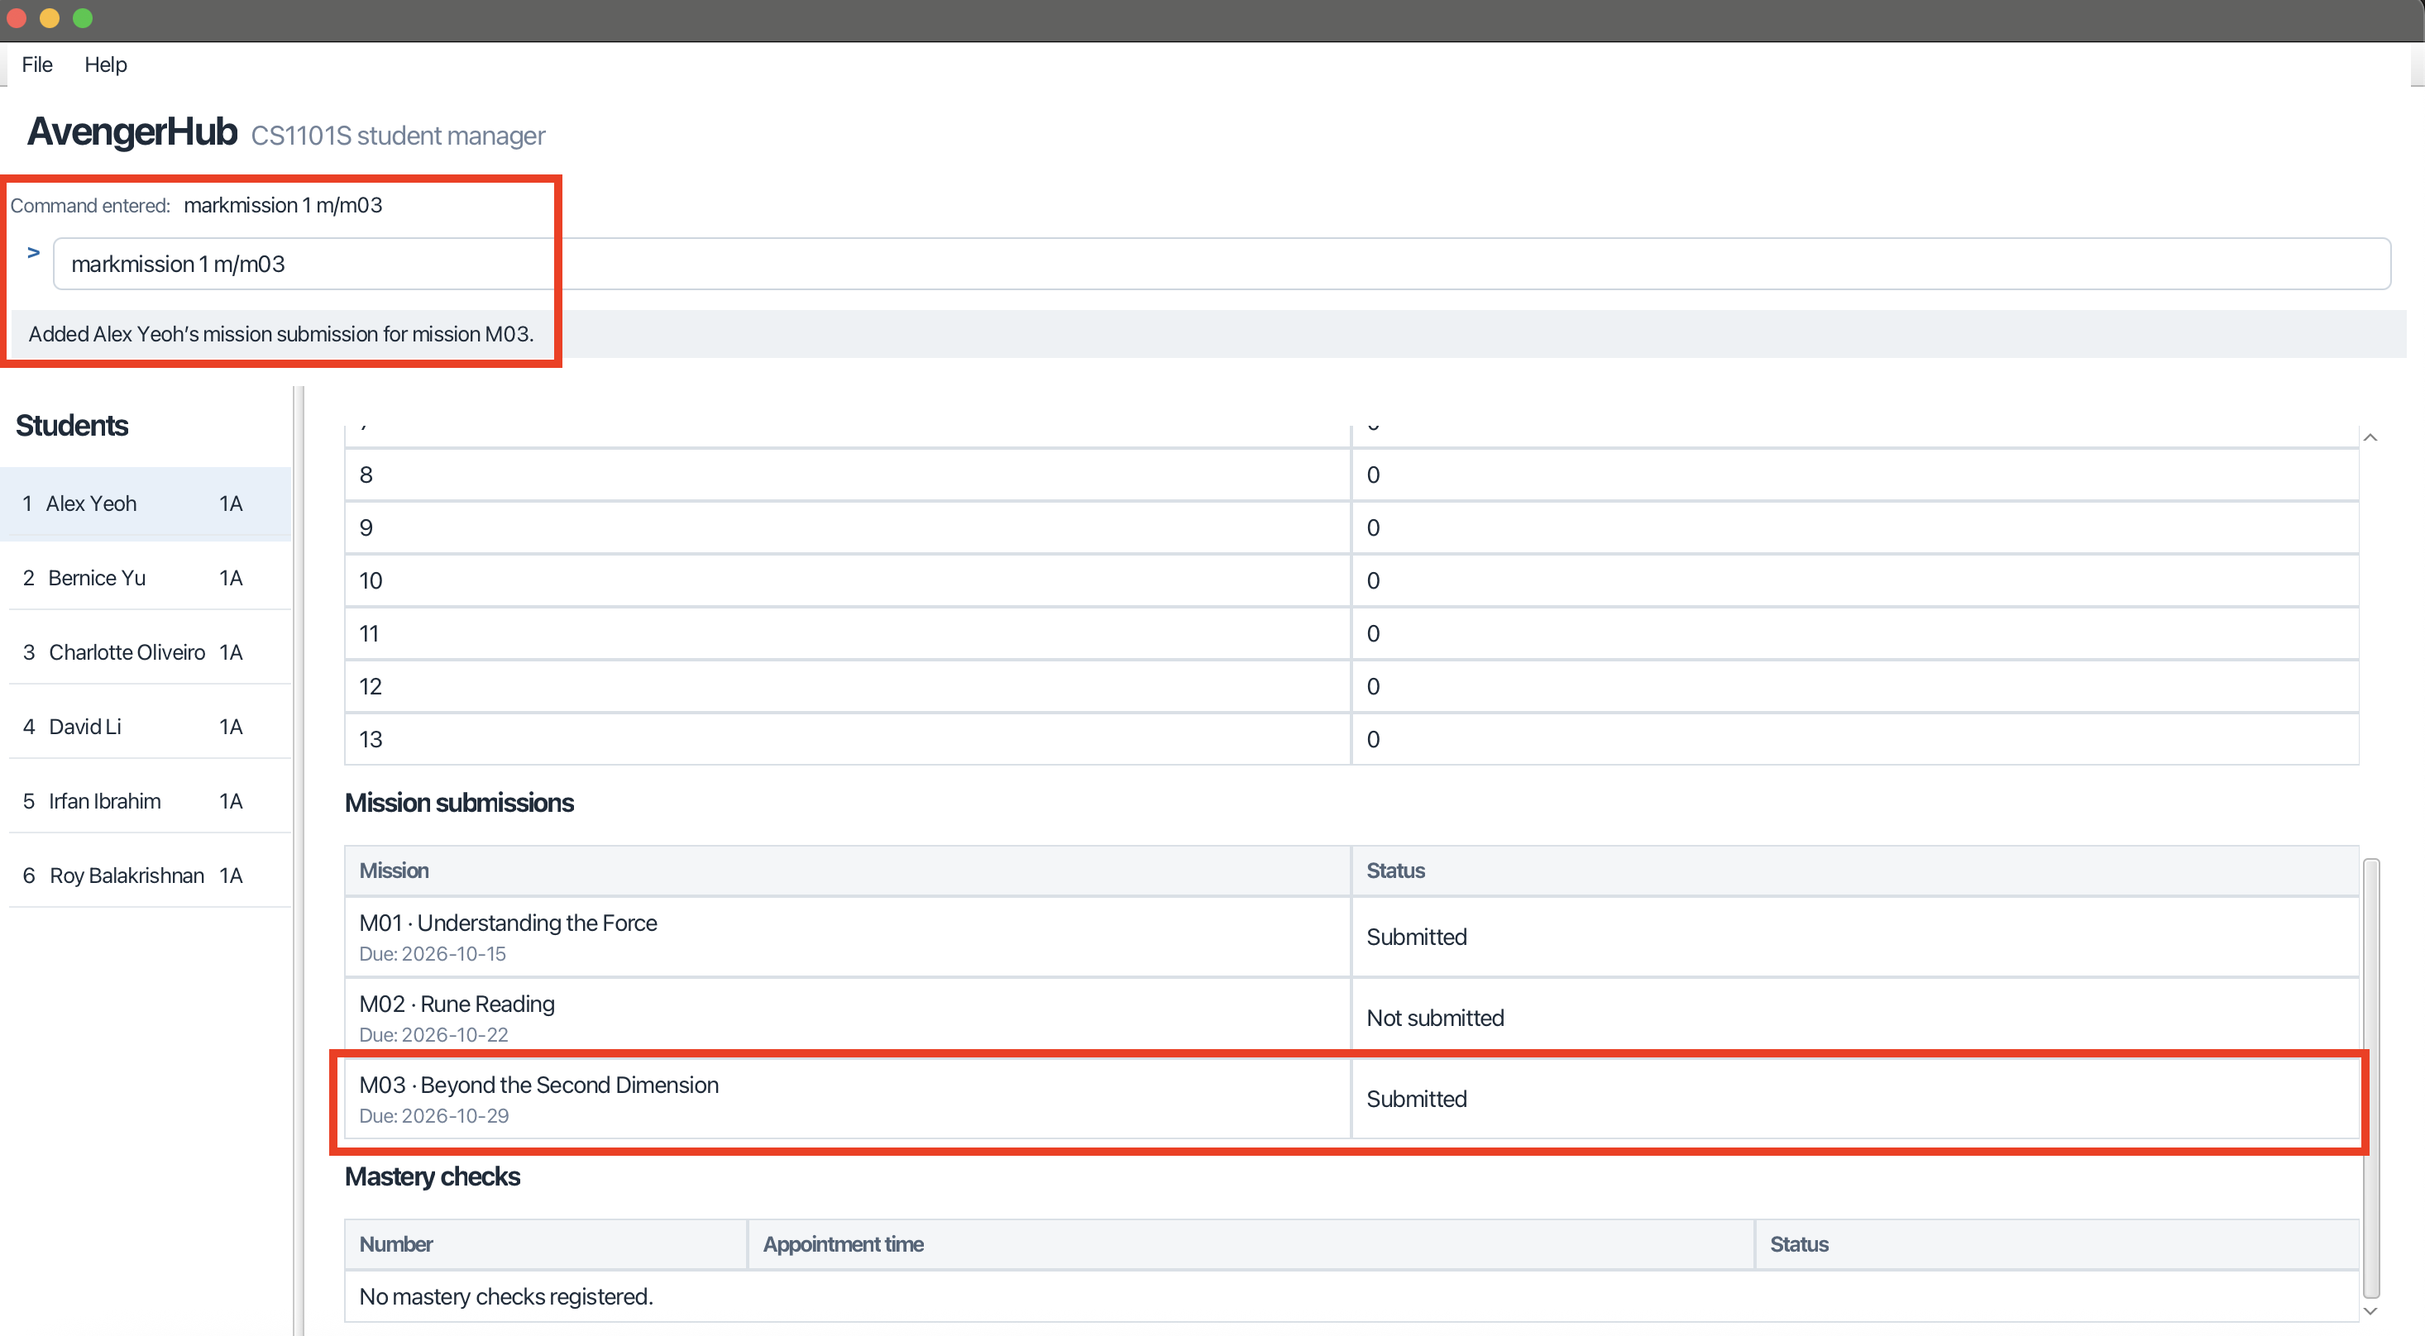
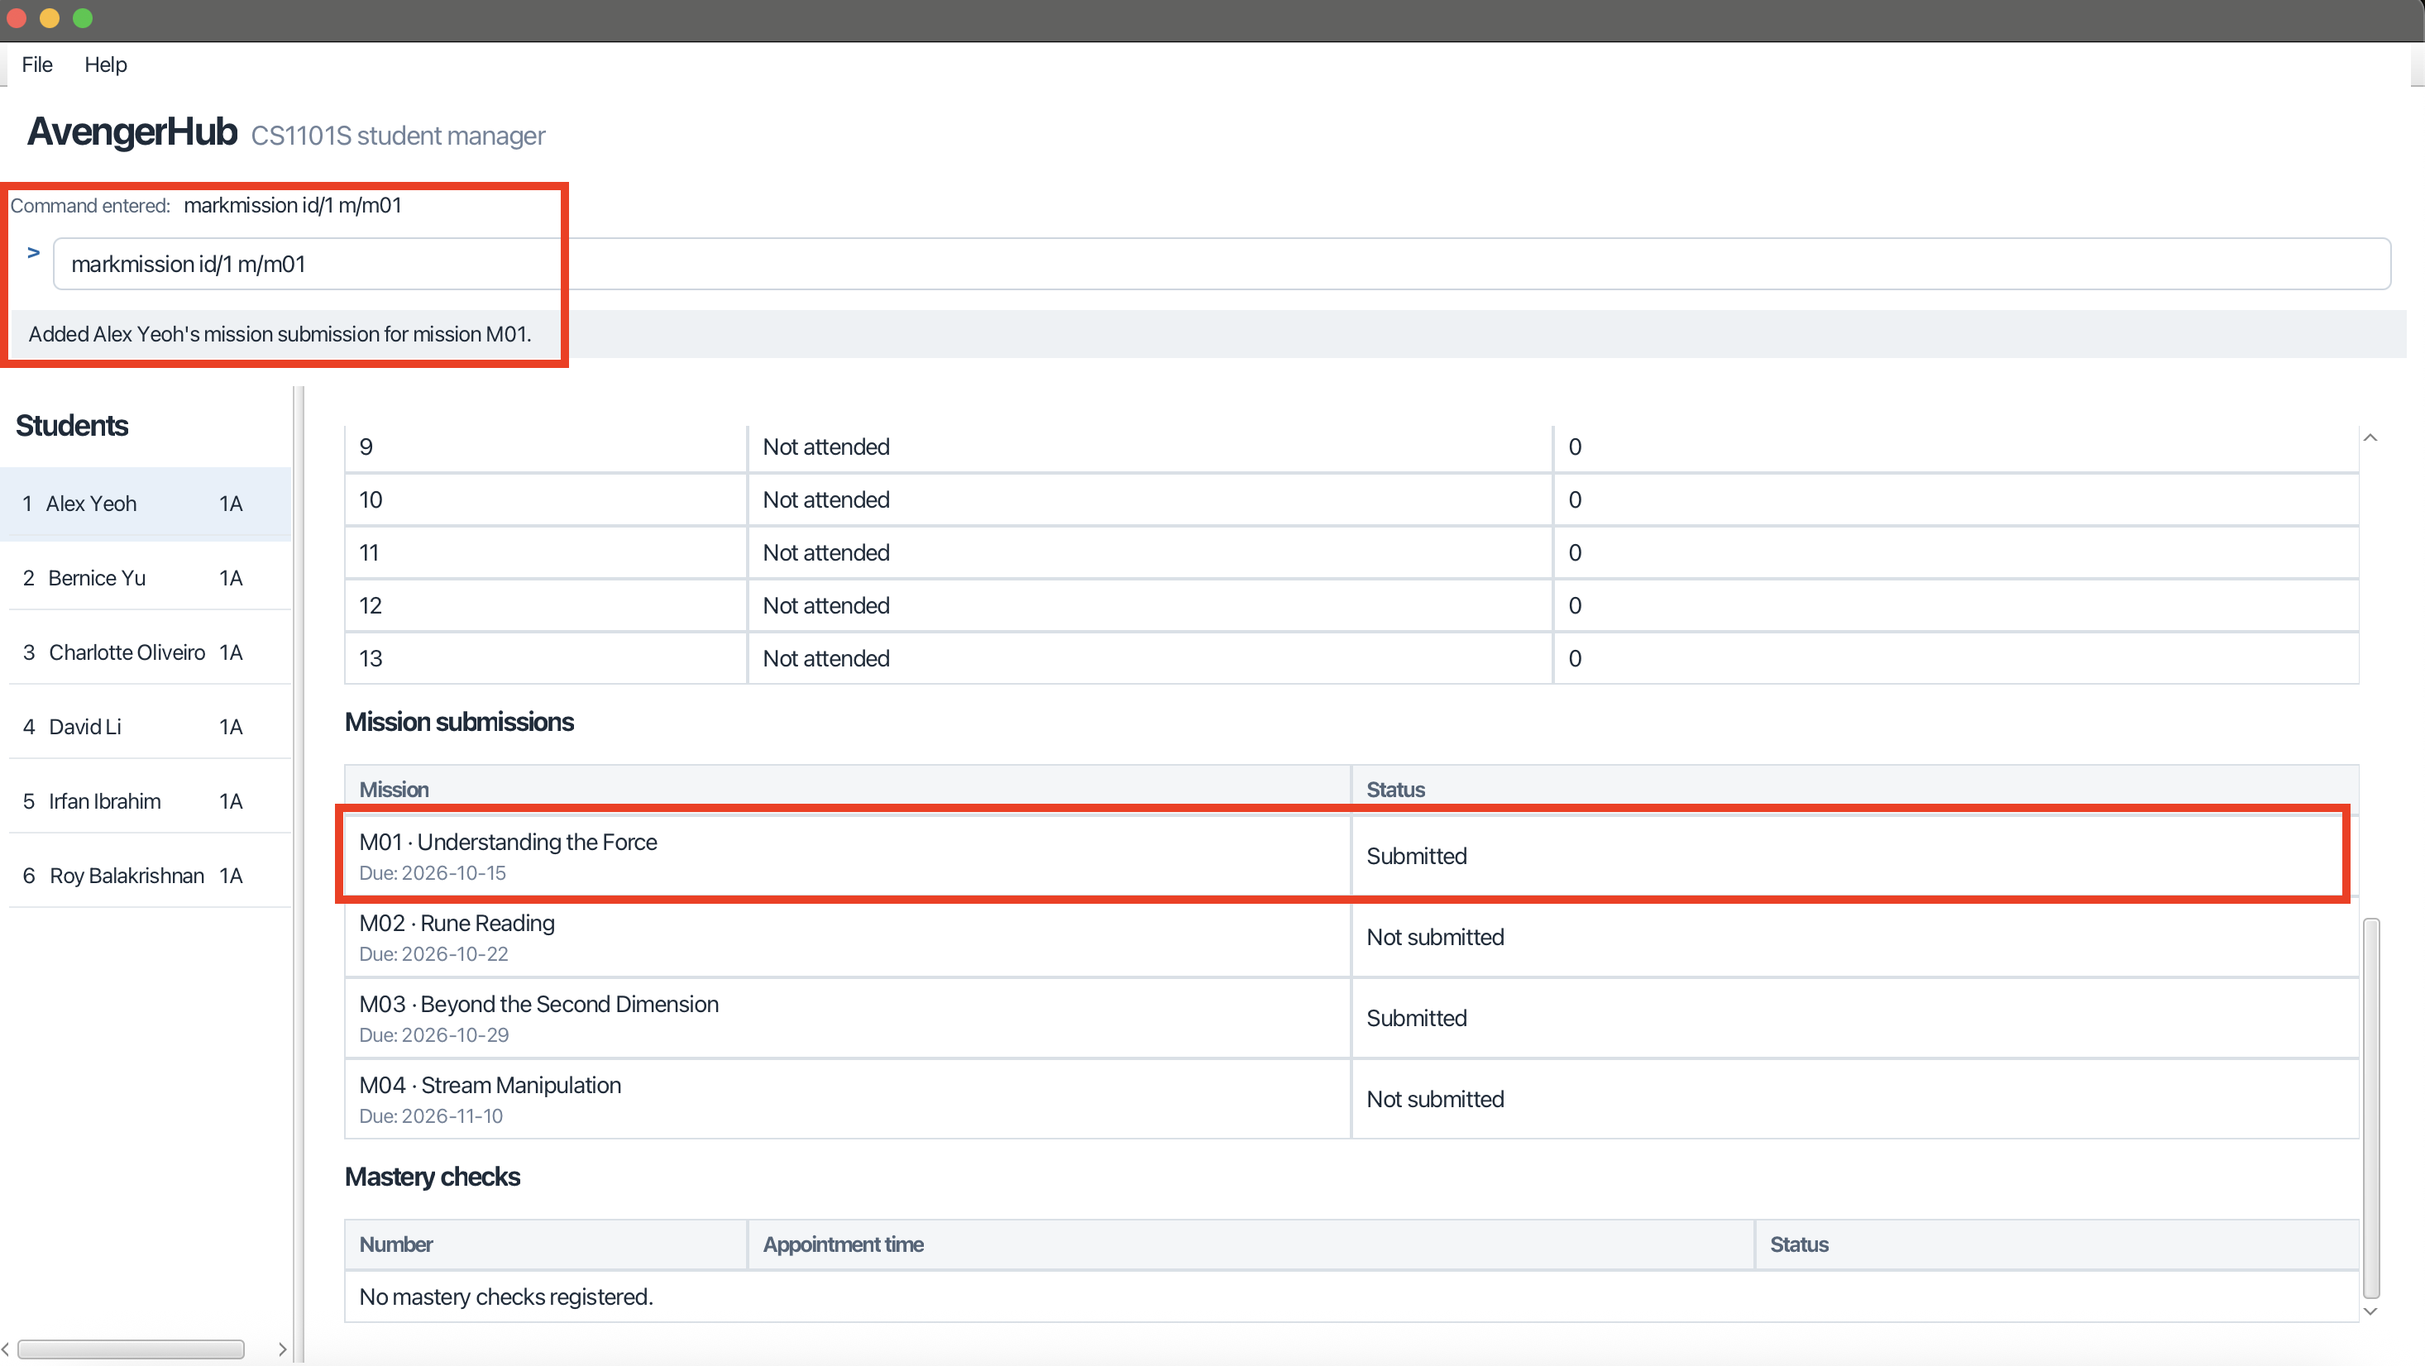
Update documentation

diff --git a/docs/DeveloperGuide.md b/docs/DeveloperGuide.md
@@ -192,7 +192,7 @@ This section describes some noteworthy details on how certain features are imple
 
 ### Adding a mission
 
-For `addmission m/MISSION_ID n/NAME d/DEADLINE`, `AddressBookParser` delegates to `AddMissionCommandParser`, which validates exactly one mission ID, name, and deadline and creates an `AddMissionCommand`. `ParserUtil#parseMissionId(...)` validates the ID with `MissionId`, preserving the required `M` plus positive integer format. `ParserUtil#parseMissionName(...)` removes surrounding whitespace and collapses repeated whitespace in the name, while preserving case and punctuation. The deadline must be a real date in `YYYY-MM-DD` format; past dates are accepted. Missing, repeated, blank, or invalid fields and unexpected preamble text cause a `ParseException`.
+For `addmission m/MISSION_ID n/NAME d/DEADLINE`, `AddressBookParser` delegates to `AddMissionCommandParser`, which validates exactly one mission ID, name, and deadline and creates an `AddMissionCommand`. `MissionParserUtil#parseMissionId(...)` validates the ID with `MissionId`, preserving the required `M` plus positive integer format. `MissionParserUtil#parseMissionName(...)` removes surrounding whitespace and collapses repeated whitespace in the name, while preserving case and punctuation. The deadline must be a real date in `YYYY-MM-DD` format; past dates are accepted. Missing, repeated, blank, or invalid fields and unexpected preamble text cause a `ParseException`.
 
 When executed, `AddMissionCommand` checks for an existing ID and calls `Model#hasMissionName(...)` to reject duplicate names, ignoring case and whitespace differences. It then calls `Model#addMission(...)`, which delegates through `ModelManager` and `AddressBook` to `MissionCatalogue`. The catalogue validates uniqueness and stores the supplied ID; it never renumbers missions. The command returns a `CommandResult` containing the added mission.
 
@@ -203,8 +203,8 @@ stored with each mission; there is no allocation counter. Deletion leaves all re
 and removes the deleted ID from every student's submissions.
 
 Mission names share `Mission.normalizeName(...)` for whitespace normalization. Delete and submission-list
-parsers share `MissionParser.parseMissionIdArgument(...)`, while mark, unmark, and mission deletion use
-`Student.withMissionSubmissions(...)` to preserve all other student fields. Common command feedback is
+parsers both use `MissionParserUtil#parseMissionId(...)`. Marking, unmarking, and mission deletion use
+`Student#withMissionSubmissions(...)` to preserve all other student fields. Common command feedback is
 defined in `Messages`.
 
 The sequence diagram below illustrates the successful interaction flow using `execute("addmission m/M01 n/Rune Reading d/2026-10-20")`. Here, `missionId` is the parsed `MissionId`, `deadline` is the parsed `LocalDate` value for `2026-10-20`, and `feedback` is the formatted success message.
@@ -213,7 +213,7 @@ The sequence diagram below illustrates the successful interaction flow using `ex
 
 ### Deleting a mission
 
-For `delmission m/M03`, `AddressBookParser` delegates to `DeleteMissionCommandParser`. The parser requires exactly one nonblank `m/` value and rejects unexpected preamble text. `ParserUtil#parseMissionId(...)` trims and validates the ID, and `MissionId` normalizes it to uppercase. Thus, `m/m03` and `m/M03` identify the same mission; the ID is not a displayed list position.
+For `delmission m/M03`, `AddressBookParser` delegates to `DeleteMissionCommandParser`. The parser requires exactly one nonblank `m/` value and rejects unexpected preamble text. `MissionParserUtil#parseMissionId(...)` trims and validates the ID, and `MissionId` normalizes it to uppercase. Thus, `m/m03` and `m/M03` identify the same mission; the ID is not a displayed list position.
 
 When executed, `DeleteMissionCommand` calls `Model#findMission(...)` and rejects a nonexistent mission before making changes. It then calls `Model#deleteMission(...)`. Within the model, `AddressBook` prepares replacement student records without the deleted mission's submission ID and removes the mission from the catalogue. This includes students hidden by the current filter and preserves their other details and submissions. Remaining IDs do not change; a deleted ID may later be explicitly reused. The command returns a `CommandResult` identifying the deleted mission.
 
@@ -225,7 +225,7 @@ The sequence diagram below illustrates the successful interaction flow using `ex
 
 ### Marking and unmarking mission submissions
 
-For `markmission id/INDEX m/MISSION_ID` or `unmarkmission id/INDEX m/MISSION_ID`, `AddressBookParser` delegates to `MarkMissionCommandParser` or `UnmarkMissionCommandParser`. Both reuse `MissionParserUtil` to validate a positive student index and exactly one case-insensitive mission ID, then create the corresponding command. Invalid or extra arguments cause a `ParseException`; whether the mission and displayed student exist is checked during execution.
+For `markmission id/INDEX m/MISSION_ID` or `unmarkmission id/INDEX m/MISSION_ID`, `AddressBookParser` delegates to `MarkMissionCommandParser` or `UnmarkMissionCommandParser`. Both use `ArgumentStructureValidator` to require exactly one `id/` and `m/` value, `ParserUtil#parseIndex(...)` to validate a positive student index, and `MissionParserUtil#parseMissionId(...)` to validate the case-insensitive mission ID. They then create the corresponding command. Invalid or extra arguments cause a `ParseException` that includes command usage. A positive index that does not identify a student in the current displayed list is rejected during execution with a `CommandException`; this error also includes the corresponding command usage. A well-formed ID for a mission that does not exist is rejected during execution without changing records.
 
 When executed, the command calls `Model#findMission(...)` and retrieves the selected student from `Model#getFilteredStudentList()`. Marking uses `MissionSubmissions#withSubmission(...)`; unmarking uses `MissionSubmissions#withoutSubmission(...)`. Each produces updated immutable submission data, which the command places in a replacement `Student` before calling `Model#setStudent(...)`. Other student details and the current filter are preserved, and the observable student list notifies the UI of the replacement.
 
@@ -248,7 +248,7 @@ Parsing and command-validation failures exit before the saving step. If saving i
 ### Viewing mission submission statuses
 
 For `viewmission m/MISSION_ID [s/overdue]`, `AddressBookParser` delegates to `ViewMissionCommandParser`. The parser reuses `ArgumentStructureValidator#validateStructureWithOptionals(...)` to require exactly one mission prefix and allow at most one status prefix.
-`ParserUtil#parseMissionId(...)` validates the mission ID. When supplied, the status value must be `overdue`, ignoring case. Missing required prefixes, duplicate prefixes, unexpected preamble text, invalid mission IDs, and invalid status values cause a `ParseException`.
+`MissionParserUtil#parseMissionId(...)` validates the mission ID. When supplied, the status value must be `overdue`, ignoring case. Missing required prefixes, duplicate prefixes, unexpected preamble text, invalid mission IDs, and invalid status values cause a `ParseException`.
 
 When executed, `ViewMissionCommand` first calls `Model#findMission(...)`. A nonexistent mission causes a `CommandException` before the displayed student list changes. The command then obtains the current local date using `LocalDate.now(clock)` and calls `Mission#isPastDeadline(...)`.
 
@@ -544,8 +544,6 @@ submission records, or the current student filter.
 
 **MSS**
 
-**MSS**
-
 1. Tutor requests to edit a shared mission and provides the required details.
 2. AvengerHub updates the mission, saves the changes, and confirms success.
 
@@ -639,8 +637,9 @@ submission records, or the current student filter.
 
       Use case ends.
       
-Student records, mission definitions, submission records, and the current
-student filter remain unchanged throughout this use case.
+Only the selected student's submission record changes. Other student data and
+mission definitions remain unchanged. The current student filter remains
+active, so its displayed results may change if they depend on that submission.
 
 **Use case: List mission submissions**
 
@@ -724,8 +723,6 @@ are excluded, regardless of when they were recorded.
 
 **Use case: View mission submission statuses**
 
-**Actor:** Tutor
-
 **MSS**
 
 1. Tutor requests submission statuses for a mission, optionally
@@ -764,8 +761,6 @@ Without a status filter, all students are included. With the overdue
 filter, only students without a recorded submission whose mission deadline
 is before today's local date are included. Submitted students are never
 included in overdue results.
-
-*{More to be added}*
 
 ### Non-Functional Requirements
 

diff --git a/docs/UserGuide.md b/docs/UserGuide.md
@@ -439,7 +439,7 @@ produce their respective constraint messages. An existing name produces
 
 ### Deleting a mission: `delmission`
 
-Format: `delmission m/MISSIONID`
+Format: `delmission m/MISSION_ID`
 
 Example: `delmission m/M03`
 
@@ -470,7 +470,7 @@ Format: `markmission id/INDEX m/MISSION_ID`
 * Records are maintained manually. Not submitted means no submission is recorded in AvengerHub.
 
 Example: `markmission id/1 m/M01`, followed by `view id/1`, displays M01 as Submitted.
-An unknown mission ID or invalid command leaves existing records unchanged.
+An unknown mission ID or invalid command leaves existing records unchanged. Malformed arguments display an error with command usage. A positive index that does not identify a student in the currently displayed list is rejected during execution with an index error followed by the command's usage; check the current list and use an index shown there. The same applies to `unmarkmission`.
 
 ![result for marking a mission](images/markMissionResult.png)
 
@@ -583,6 +583,7 @@ Format: `viewmission m/MISSION_ID [s/overdue]`
 * Displays the mission ID, description, deadline, and result count.
 * Displays Submitted when a submission is recorded.
 * Displays Overdue when no submission is recorded and the deadline has passed.
+* Displays Not submitted when no submission is recorded and the deadline is today or in the future.
 * A mission due today is not overdue.
 * Subsequent `view`, `markmission`, and `unmarkmission` commands use the
   indexes in the displayed list.
@@ -673,7 +674,7 @@ Action     | Format, Examples
 **Mark mastery check** | `markmc id/INDEX num/NUMBER`<br> e.g. `markmc id/1 num/2`                                                                                                             
 **Unmark mastery check** | `unmarkmc id/INDEX num/NUMBER`<br> e.g. `unmarkmc id/1 num/2`                                                                                                         
 **Add mission** | `addmission m/MISSION_ID n/NAME d/DEADLINE`<br> e.g., `addmission m/M01 n/Rune Reading d/2026-10-20`
-**Delete mission** | `delmission m/MISSIONID`<br> e.g., `delmission m/M03`                                                                                                              
+**Delete mission** | `delmission m/MISSION_ID`<br> e.g., `delmission m/M03`
 **Record mission submission** | `markmission id/INDEX m/MISSION_ID`<br> e.g., `markmission id/1 m/M01`                                                                                                
 **Remove mission submission** | `unmarkmission id/INDEX m/MISSION_ID`<br> e.g., `unmarkmission id/1 m/M01`                                                                                            
 **Edit mission** | `editmission m/MISSION_ID [n/NAME] [d/DEADLINE]`<br> e.g., `editmission m/M01 n/Rune Reading d/2026-10-22`                                                         
@@ -681,7 +682,7 @@ Action     | Format, Examples
 **List mission submissions** | `listmissions m/MISSION_ID`<br> e.g., `listmissions m/M01`  
 **View mission statuses** | `viewmission m/MISSION_ID [s/overdue]`
 **Clear**  | `clear`                                                                                                                                                            
-**Find**   | `find KEYWORD [MORE_KEYWORDS]`<br> e.g., `find James Jake`                                                                                                         
+**Find**   | `find [NAME_WORDS [, MORE_NAME_WORDS]...] [g/STUDIO_GROUP]...`<br> e.g., `find James Jake`
 **List**   | `list`                                                                                                                                                             
 **Help**   | `help`                                                                                                                                                             
 **Exit**   | `exit`

diff --git a/test/ui-test-plan.md b/test/ui-test-plan.md
@@ -244,6 +244,20 @@ direct UI equivalent.
 | MISSION-PARSE-005 | Parse lowercase `m/m03` with surrounding whitespace. | The parser trims the input and returns canonical ID `M03`; `MissionId` owns case normalization. |
 | MISSION-DELETE-RECREATE-001 | With mission `M03` submitted by a student, delete `M03`, then recreate it using `m/M03` with a new name and deadline. | The recreated mission uses ID `M03` and has no previous submissions. |
 
+## Mission submission index error usage
+
+Start with at least two students and a configured mission. Record a submission
+for one student before testing unmarking. After each rejected command, inspect
+the student profile and confirm the submission state is unchanged.
+
+| ID | Steps | Expected result |
+| --- | --- | --- |
+| MISSION-INDEX-USAGE-001 | Run `markmission id/1 m/M03`, then `view id/1`. | The first displayed student's M03 status is Submitted. |
+| MISSION-INDEX-USAGE-002 | Run `markmission id/3 m/M03`, then `view id/1`. | Invalid displayed-index feedback is followed by a blank line and complete `markmission` usage; M03 remains Submitted for student 1 and no other student changes. |
+| MISSION-INDEX-USAGE-003 | Run `unmarkmission id/1 m/M03`, then `view id/1`. | The first displayed student's M03 status is Not submitted. |
+| MISSION-INDEX-USAGE-004 | Run `unmarkmission id/3 m/M03`, then `view id/1`. | Invalid displayed-index feedback is followed by a blank line and complete `unmarkmission` usage; M03 remains Not submitted for student 1 and no other student changes. |
+| MISSION-INDEX-USAGE-005 | Run `find` so only one student is displayed, then run `markmission id/2 m/M03` and `unmarkmission id/2 m/M03`, inspecting the displayed student afterward. | Each execution-time index error includes the corresponding command usage; neither submission state nor the active student filter changes. |
+
 ## Missing-prefix usage suffix regression
 
 Missing-prefix feedback now ends with one newline followed by the calling command's
